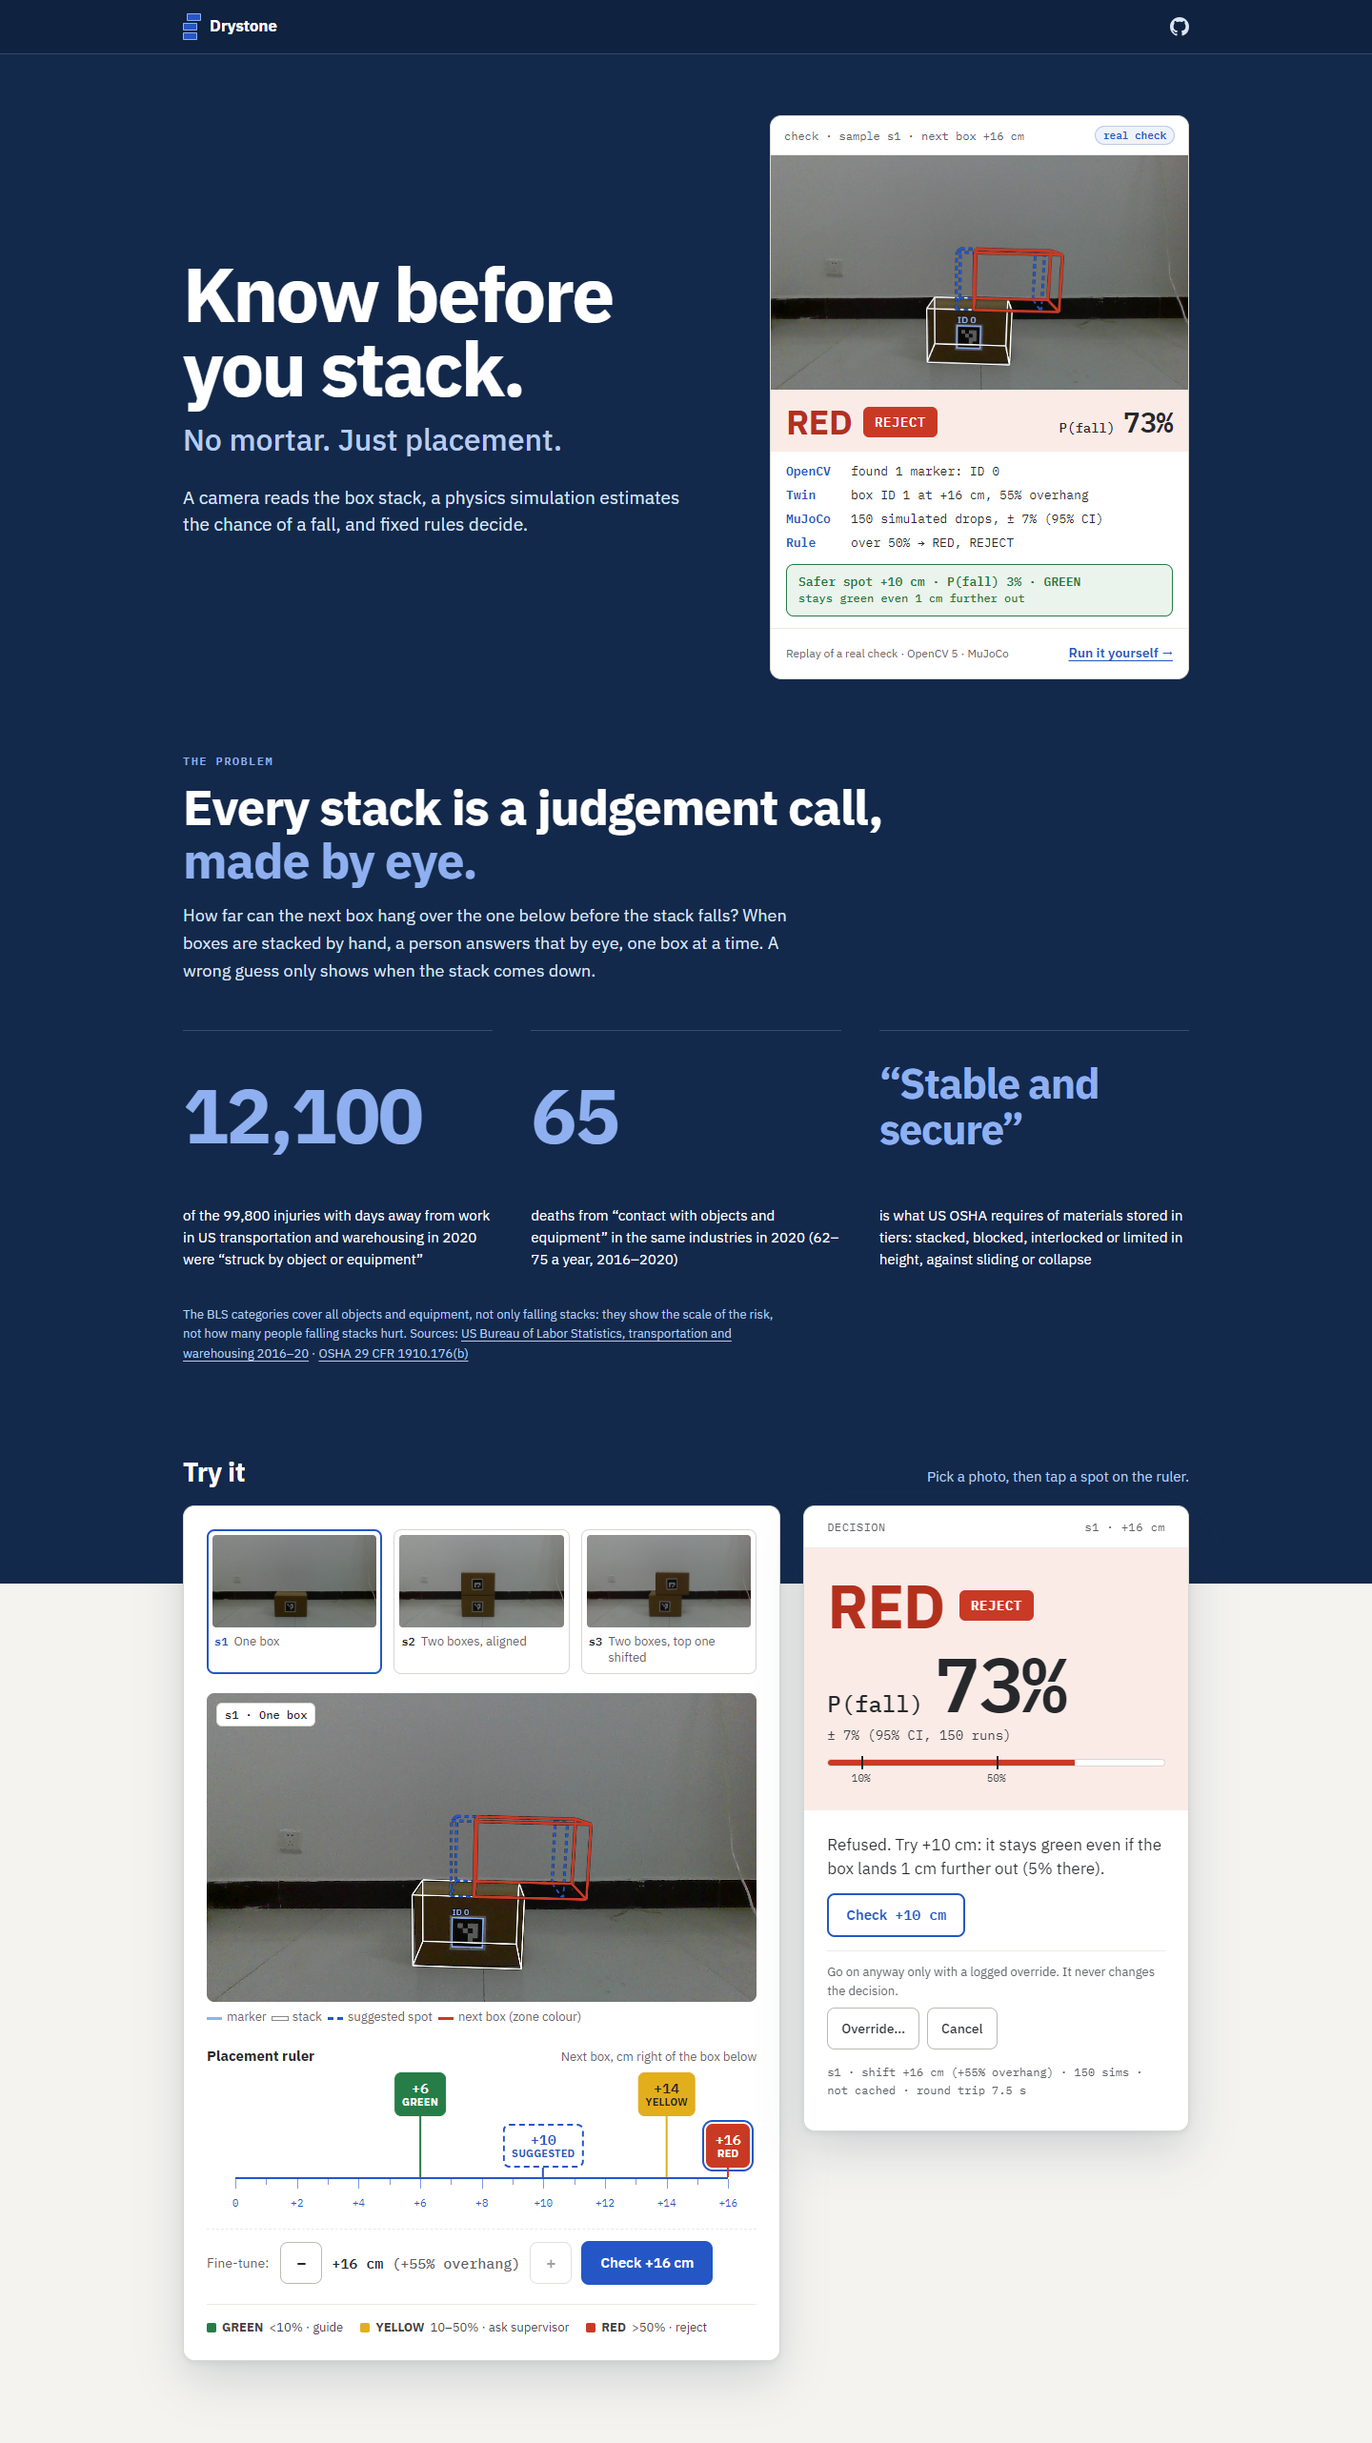
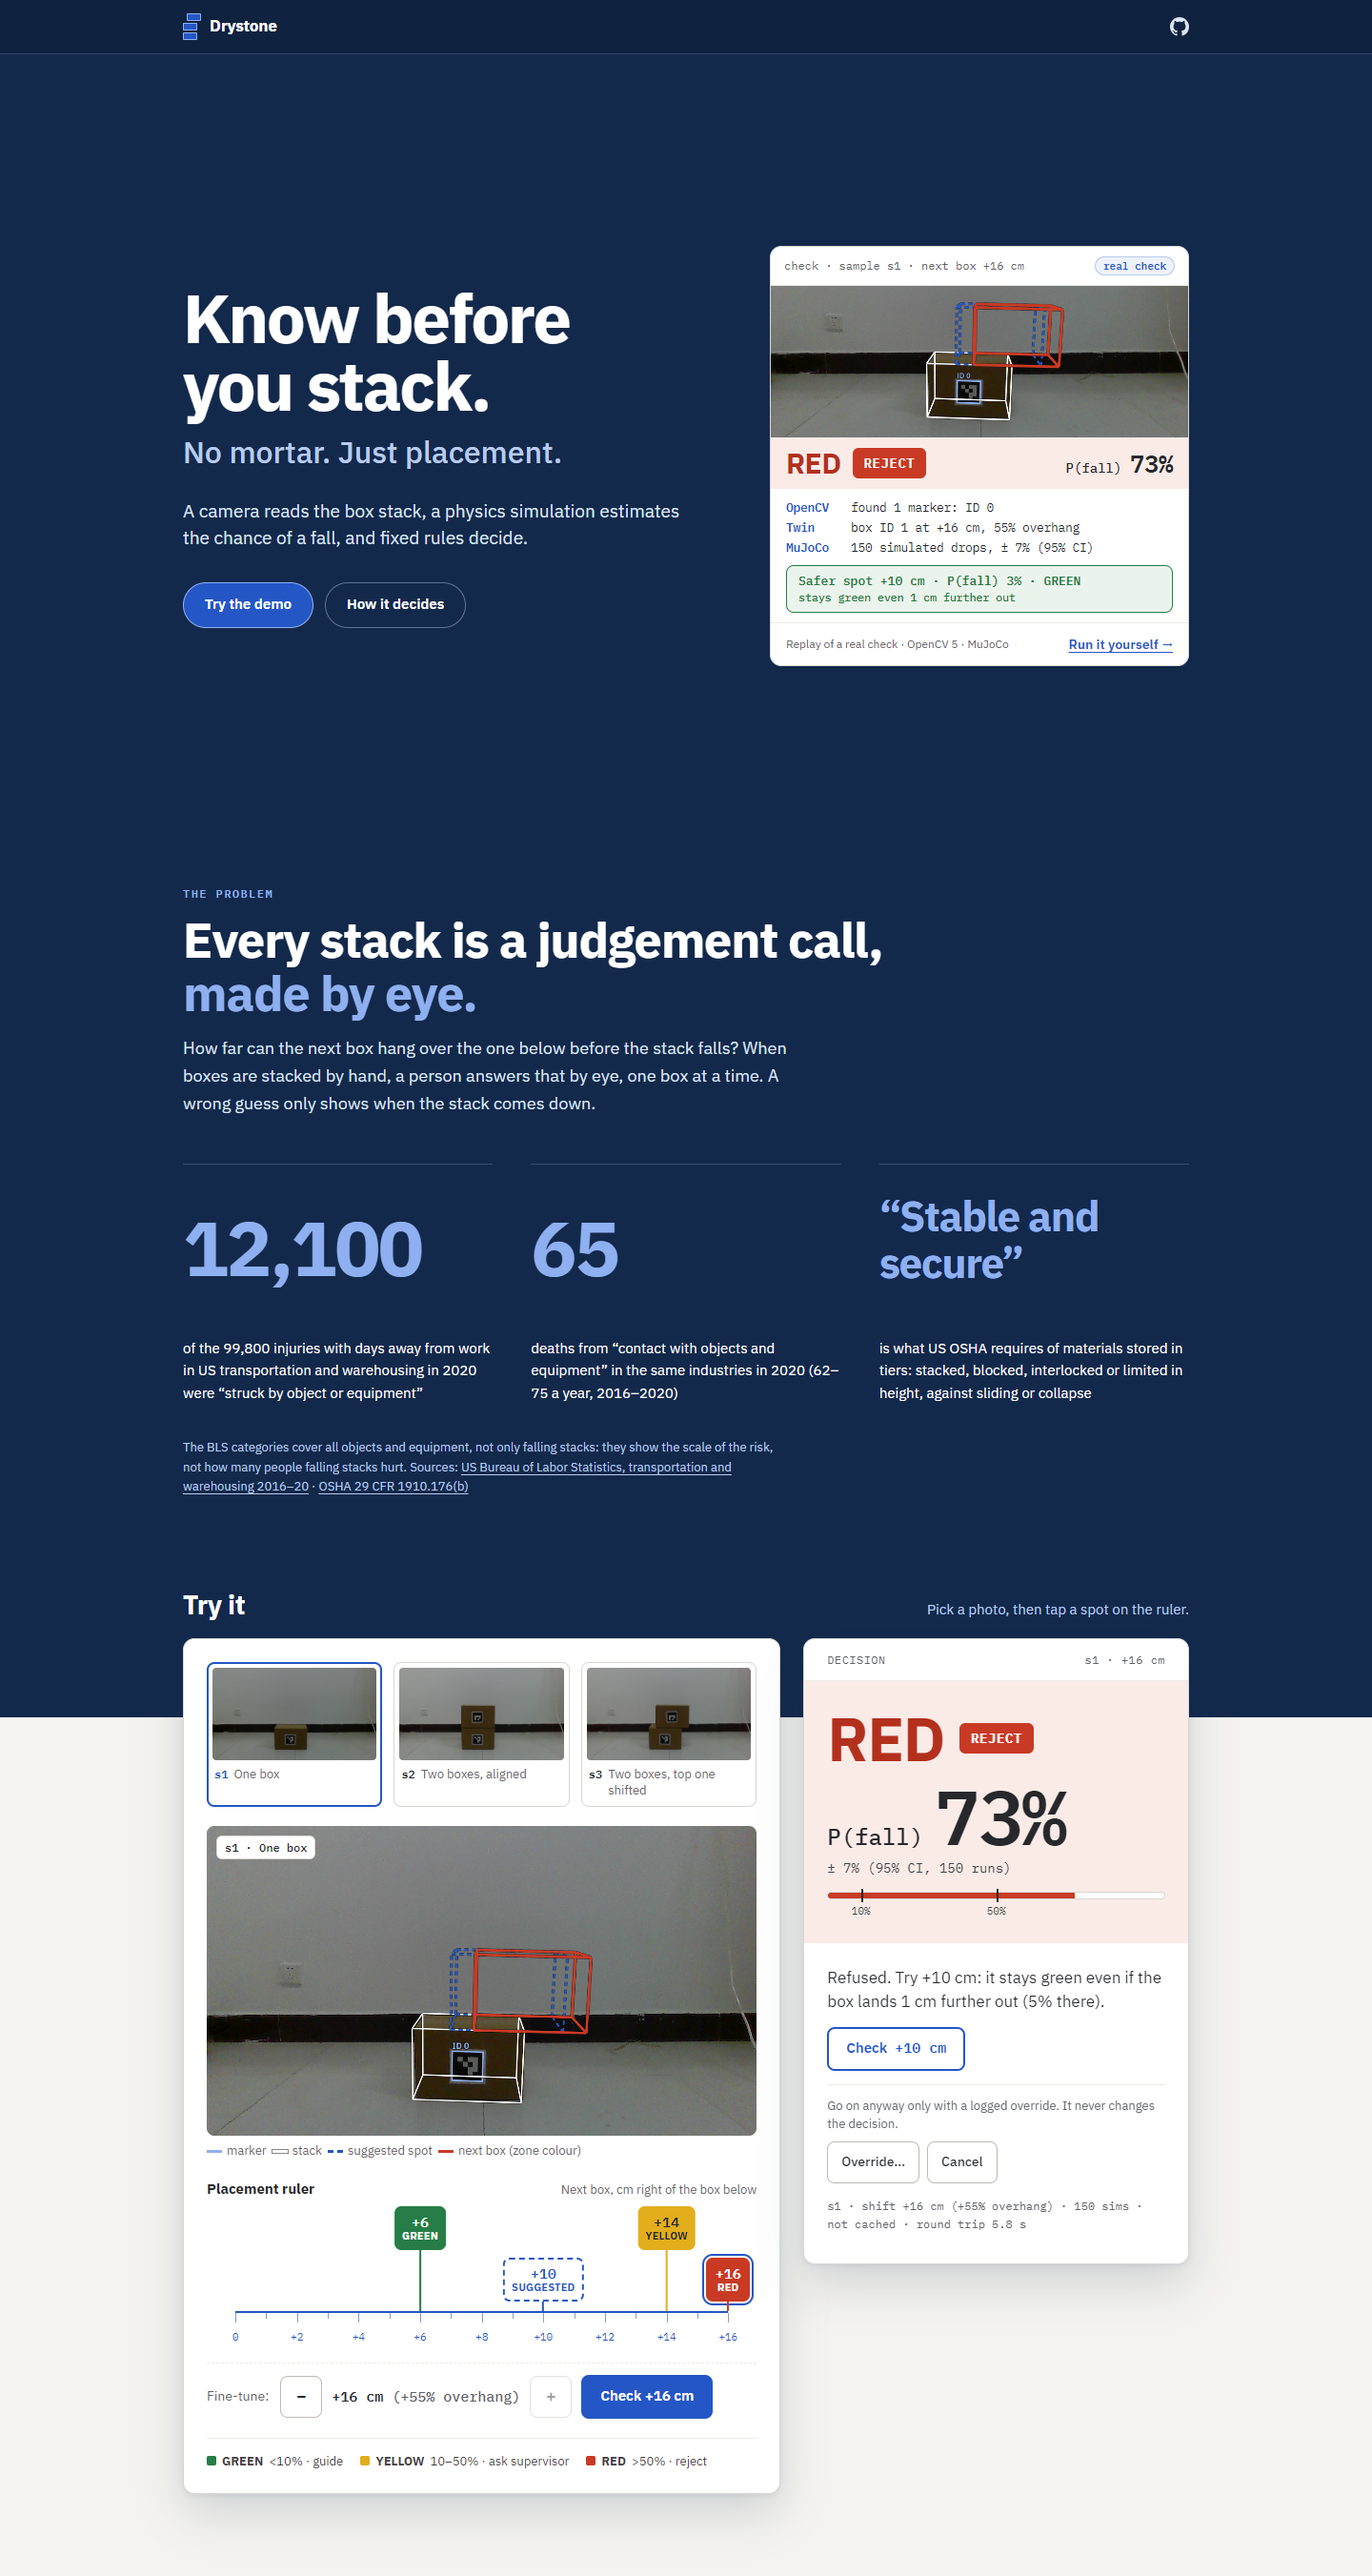
Judges' page: hero fits one screen (compact proof card, CTA buttons)

diff --git a/web/index.html b/web/index.html
@@ -52,28 +52,35 @@
   .toplink { display: inline-flex; align-items: center; justify-content: center; width: 44px; height: 44px; margin-right: -12px; border-radius: 8px; color: var(--hero-body); }
   .hero .toplink { color: var(--hero-body); }
   @media (hover: hover) { .hero .toplink:hover { color: #fff; background: rgba(255,255,255,0.08); } }
-  .hero-main { display: grid; grid-template-columns: minmax(0, 1fr) minmax(320px, 440px); align-items: center; gap: clamp(32px, 5vw, 72px); padding: clamp(32px, 5vw, 64px) 0 clamp(28px, 3.5vw, 48px); }
+  .hero-main { display: grid; grid-template-columns: minmax(0, 1fr) minmax(320px, 440px); align-items: center; gap: clamp(32px, 5vw, 72px); padding: clamp(24px, 3vw, 40px) 0; }
+  /* first screen: headline, buttons and the whole proof card, without scrolling */
+  @media (min-width: 861px) { .hero-main { min-height: calc(100svh - 57px); } }
+  .hero-cta { display: flex; flex-wrap: wrap; gap: 12px; margin-top: clamp(20px, 2.4vw, 32px); }
+  .hero .btn-solid, .hero .btn-line { display: inline-flex; align-items: center; min-height: 48px; padding: 0 22px; border-radius: 999px; font-size: 15px; font-weight: 600; text-decoration: none; }
+  .hero .btn-solid { background: var(--brand); color: #fff; border: 1px solid var(--brand-edge); }
+  .hero .btn-line { color: #fff; border: 1px solid rgba(185,203,238,0.45); }
+  @media (hover: hover) { .hero .btn-solid:hover { background: #1D4AAB; } .hero .btn-line:hover { background: rgba(255,255,255,0.08); } }
   .hero-copy { min-width: 0; }
   @media (max-width: 860px) { .hero-main { grid-template-columns: minmax(0, 1fr); } }
-  h1 { margin: 0; font-size: clamp(40px, 5.6vw, 80px); line-height: 0.98; font-weight: 700; letter-spacing: -0.03em; text-wrap: balance; }
+  h1 { margin: 0; font-size: clamp(40px, 5vw, 72px); line-height: 0.98; font-weight: 700; letter-spacing: -0.03em; text-wrap: balance; }
   .hero-sub { margin: clamp(8px, 1.2vw, 16px) 0 0; font-size: clamp(20px, 2.4vw, 32px); line-height: 1.2; color: var(--hero-sub); font-weight: 500; }
   .hero-body { max-width: 46ch; margin: clamp(16px, 2vw, 28px) 0 0; font-size: clamp(16px, 1.4vw, 19px); line-height: 1.5; color: var(--hero-body); text-wrap: pretty; }
   /* hero proof: a replay of one real check */
   .proof { width: 100%; margin: 0; background: var(--surface); color: var(--text); border: 1px solid var(--border); border-radius: 12px; box-shadow: var(--shadow); overflow: hidden; }
   .proof-cmd { display: flex; justify-content: space-between; align-items: center; gap: 8px; padding: 10px 14px; font: 12px var(--mono); color: var(--muted); border-bottom: 1px solid var(--soft); }
   .proof-tag { flex: none; font: 600 11px var(--mono); color: var(--brand); background: rgba(36,87,197,0.08); border: 1px solid rgba(36,87,197,0.25); padding: 2px 8px; border-radius: 999px; }
-  .proof canvas { display: block; width: 100%; height: auto; aspect-ratio: 16 / 9; background: var(--photo-bg); }
-  .proof-head { display: flex; align-items: center; flex-wrap: wrap; gap: 8px 12px; padding: 14px 16px 12px; min-height: 64px; background: var(--soft); transition: background-color 0.35s ease-out; }
+  .proof canvas { display: block; width: 100%; height: auto; aspect-ratio: 880 / 320; background: var(--photo-bg); }
+  .proof-head { display: flex; align-items: center; flex-wrap: wrap; gap: 8px 12px; padding: 10px 16px; min-height: 54px; background: var(--soft); transition: background-color 0.35s ease-out; }
   .proof-head.RED { background: var(--red-tint); }
-  .proof-safe small { display: block; font-weight: 500; font-size: 12px; }
-  .proof-zone { font-size: 36px; font-weight: 700; line-height: 1; letter-spacing: -0.02em; color: var(--red-text); }
+  .proof-safe small { display: block; font-weight: 500; font-size: 11.5px; }
+  .proof-zone { font-size: 30px; font-weight: 700; line-height: 1; letter-spacing: -0.02em; color: var(--red-text); }
   .proof-p { margin-left: auto; font: 500 14px var(--mono); }
-  .proof-p b { font-size: 30px; font-weight: 600; letter-spacing: -0.02em; font-variant-numeric: tabular-nums; }
-  .proof-lines { list-style: none; margin: 0; padding: 12px 16px 0; display: grid; gap: 6px; font: 13px/1.45 var(--mono); }
+  .proof-p b { font-size: 26px; font-weight: 600; letter-spacing: -0.02em; font-variant-numeric: tabular-nums; }
+  .proof-lines { list-style: none; margin: 0; padding: 10px 16px 0; display: grid; gap: 3px; font: 12.5px/1.45 var(--mono); }
   .proof-lines li { display: grid; grid-template-columns: 58px 1fr; gap: 10px; }
   .proof-lines .k { color: var(--brand); font-weight: 600; }
-  .proof-safe { margin: 12px 16px 0; padding: 9px 12px; border: 1.5px solid var(--green); background: var(--green-tint); color: var(--green-text); border-radius: 8px; font: 600 13px/1.4 var(--mono); }
-  .proof-foot { display: flex; justify-content: space-between; align-items: center; flex-wrap: wrap; gap: 0 12px; padding: 4px 16px 4px; margin-top: 12px; border-top: 1px solid var(--soft); font-size: 12px; color: var(--muted); }
+  .proof-safe { margin: 10px 16px 0; padding: 7px 12px; border: 1.5px solid var(--green); background: var(--green-tint); color: var(--green-text); border-radius: 8px; font: 600 13px/1.4 var(--mono); }
+  .proof-foot { display: flex; justify-content: space-between; align-items: center; flex-wrap: wrap; gap: 0 12px; padding: 0 16px; margin-top: 10px; border-top: 1px solid var(--soft); font-size: 12px; color: var(--muted); }
   .hero .proof-foot a { display: inline-flex; align-items: center; min-height: 44px; font-size: 14px; font-weight: 600; color: var(--brand); }
   /* the replay only hides steps once the script runs, so the card is complete without it */
   .proof.anim [data-step] { opacity: 0; transform: translateY(4px); transition: opacity 0.35s ease-out, transform 0.35s ease-out; }
@@ -295,10 +302,11 @@
         <h1>Know before you stack.</h1>
         <p class="hero-sub">No mortar. Just placement.</p>
         <p class="hero-body">A camera reads the box stack, a physics simulation estimates the chance of a fall, and fixed rules decide.</p>
+        <div class="hero-cta"><a class="btn-solid" href="#h-try">Try the demo</a><a class="btn-line" href="#h-how">How it decides</a></div>
       </div>
       <figure class="proof" id="proof" aria-label="Replay of a real check: sample s1, next box at +16 cm">
         <div class="proof-cmd"><span id="proof-cmd">check &middot; sample s1 &middot; next box +16 cm</span><span class="proof-tag">real check</span></div>
-        <canvas id="proof-view" width="640" height="360" aria-hidden="true"></canvas>
+        <canvas id="proof-view" width="880" height="320" aria-hidden="true"></canvas>
         <div class="proof-head RED" id="proof-head"><span class="proof-zone" id="proof-zone" data-step>RED</span><span class="pill" id="proof-action" data-step>REJECT</span><span class="proof-p">P(fall) <b id="proof-p">73%</b></span></div>
         <ol class="proof-lines" id="proof-lines"></ol>
         <div class="proof-safe" id="proof-safe" data-step></div>
@@ -864,21 +872,34 @@
       ["OpenCV", "found " + REC.markers.length + " marker" + (REC.markers.length === 1 ? "" : "s") + ": ID " +
         REC.markers.map(function (m) { return m.id; }).join(", ")],
       ["Twin", "box ID " + REC.box_id + " at " + signed(REC.offset_cm) + " cm, " + Math.round(d.overhang_pct) + "% overhang"],
-      ["MuJoCo", d.n + " simulated drops, \u00b1 " + pct(d.ci) + " (95% CI)"],
-      ["Rule", "over 50% \u2192 " + d.zone + ", " + ACTION[d.action]]
+      ["MuJoCo", d.n + " simulated drops, \u00b1 " + pct(d.ci) + " (95% CI)"]
     ];
     el("proof-lines").innerHTML = lines.map(function (l) {
       return '<li data-step><span class="k">' + esc(l[0]) + "</span><span>" + esc(l[1]) + "</span></li>";
     }).join("");
     el("proof-safe").innerHTML = a ? esc("Safer spot " + signed(Math.round(a.offset_cm)) + " cm \u00b7 P(fall) " + pct(a.p) + " \u00b7 GREEN") +
       "<small>stays green even 1 cm further out</small>" : "No safe spot in the search range";
+    var crop = null;
+    function cropBox() {
+      // the part of the photo around the markers and boxes, at the canvas aspect ratio
+      var pts = [], W = img.naturalWidth, H = img.naturalHeight, A = pv.width / pv.height;
+      REC.polygons.concat(REC.markers).forEach(function (p) { pts = pts.concat(p.corners); });
+      var xs = pts.map(function (p) { return p[0]; }), ys = pts.map(function (p) { return p[1]; });
+      var x0 = Math.min.apply(null, xs), x1 = Math.max.apply(null, xs), y0 = Math.min.apply(null, ys), y1 = Math.max.apply(null, ys);
+      var cw = Math.min(W, Math.max((x1 - x0) * 1.6, (y1 - y0) * 1.35 * A)), ch = cw / A;
+      if (ch > H) { ch = H; cw = ch * A; }
+      var cx = Math.max(0, Math.min(W - cw, (x0 + x1) / 2 - cw / 2)), cy = Math.max(0, Math.min(H - ch, (y0 + y1) / 2 - ch / 2));
+      return { x: cx, y: cy, w: cw };
+    }
     function paint(stage) {
-      pv.width = 640; pv.height = 360;
-      g.setTransform(pv.width / img.naturalWidth, 0, 0, pv.height / img.naturalHeight, 0, 0);
+      pv.width = 880; pv.height = 320;
+      crop = crop || cropBox();
+      var k = pv.width / crop.w;
+      g.setTransform(k, 0, 0, k, -crop.x * k, -crop.y * k);
       g.drawImage(img, 0, 0);
       G = g;
       var lw = Math.max(2, img.naturalWidth / 400) * 1.4;
-      if (stage >= 1) REC.markers.forEach(function (m) { poly(m.corners, MARKER, lw); label("ID " + m.id, m.corners[0][0], m.corners[0][1] - 8, MARKER, 30); });
+      if (stage >= 1) REC.markers.forEach(function (m) { poly(m.corners, MARKER, lw); label("ID " + m.id, m.corners[0][0], m.corners[0][1] - 8, MARKER, 22); });
       REC.polygons.forEach(function (p) {
         if (p.role === "stack" && stage >= 2) box(p.corners, "#ffffff", lw, []);
         if (p.role === "suggestion" && stage >= 4) box(p.corners, BRAND, lw * 1.4, [14, 10]);
@@ -903,7 +924,7 @@
             if (k < 1) requestAnimationFrame(count);
           })();
         }],
-        [2550, function () { el("proof-head").classList.add(d.zone); on("#proof-head [data-step]"); steps[3].classList.add("on"); }],
+        [2550, function () { el("proof-head").classList.add(d.zone); on("#proof-head [data-step]"); }],
         [3250, function () { paint(4); on("#proof-safe"); }]
       ];
       t.forEach(function (x) { setTimeout(x[1], x[0]); });

diff --git a/docs/STATUS.md b/docs/STATUS.md
@@ -223,6 +223,9 @@ Latihan final 18 Okt 13.36–13.41, `agent.py --aws`, Lambda `drystone-service:3
 - **Live sejak 18 Okt 02.30: `drystone-service:9523213`**, Function URL tetap sama. Berisi perbaikan cek ulang (kardus jatuh = FELL) dan `boxes.json` dengan tinggi terukur (dicek di dalam image).
 - Tes live (dari laptop): `GET /` 200 (3,4 dtk), `samples.json` versi foto a7aba3ca6c tanpa placeholder · **9 keputusan contoh identik dengan tabel** (s1 +6 GREEN 0% · +14 YELLOW 35% · +16 RED 73%; s2 +6 GREEN 0% · +13 YELLOW 27% · +16 RED 69%; s3 +4 GREEN 0% · +12 YELLOW 25% · +16 RED 77%; usulan sama) · POST foto lama (s2 +6 cm, box 2) → GREEN GUIDE (3,3 dtk) · `POST /log` → baris `web_supervisor_choice` di CloudWatch · **check lewat Lambda, foto sintetis ID 2 tegak di lantai samping tumpukan (berputar 25°) → FELL, action STOP**, "box ID 2 is on the floor next to the stack -> it fell", stack [0, 1], off_stack ID 2 (floor), tanpa retake (2,4 dtk) · pembanding penempatan sesuai rencana → OK, CONTINUE (+0,1 cm) · 0 baris error di CloudWatch.
 
+### Hero muat satu layar (19 Okt sore)
+- Seperti Subtext: hero setinggi layar (`min-height: 100svh` di atas 860 px), judul sedikit lebih kecil, tombol "Try the demo" + "How it decides". Kartu "real check" dipadatkan dari ±600 px menjadi 442 px: foto dipotong ke area tumpukan (880×320, dihitung dari marker dan kerangka di rekaman), baris "Rule" dihapus (sudah terwakili label REJECT). Cek: kartu utuh terlihat tanpa scroll di 1366×630, 1280×720, 1440×900, 1024×700; tanpa scroll horizontal di 390 px. 52 tes lulus. Deploy: lihat di bawah.
+
 ### Tata letak hero + bagian "The problem" (19 Okt sore)
 - Hero jadi grid dua kolom (teks kiri, kartu "real check" kanan, maks 440 px); judul sedikit lebih kecil; pita biru menimpa kartu "Try it" lebih sedikit (`--overlap` 96–160 px); "Try it" jadi grid dua kolom sampai 861 px (di 1024 px kartu tidak turun ke bawah).
 - Kalimat "Why it matters" diganti bagian **"The problem"** (gaya Subtext): judul "Every stack is a judgement call, made by eye.", satu paragraf masalah, tiga angka bersumber dari REPORT §1 — **12,100** dari 99,800 cedera (BLS 2020, "struck by object or equipment"), **65** kematian "contact with objects and equipment" (62–75/tahun 2016–2020), dan kutipan OSHA 1910.176(b) **"stable and secure"** — plus catatan batasan (kategori BLS lebih luas dari tumpukan roboh) dan link sumber BLS + OSHA.
